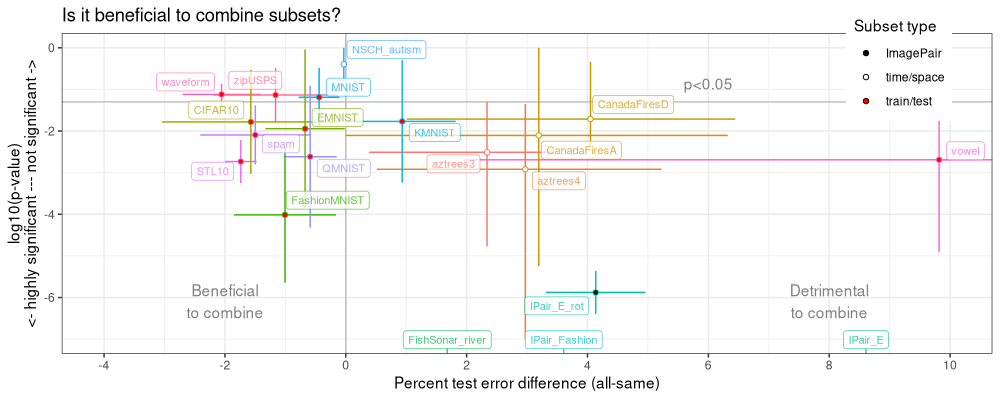
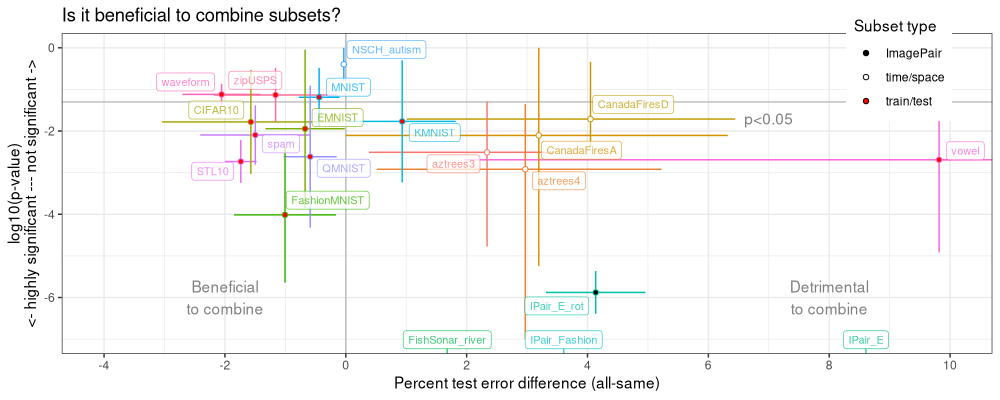
soak text ticks

diff --git a/_posts/2025-04-08-soak-volcano.md b/_posts/2025-04-08-soak-volcano.md
@@ -478,9 +478,9 @@ compare.wide[log10.p_other < -20, log10.p_other := -Inf][]
 tlab <- function(x, y, label){
   data.table(x, y, label)
 }
-text.y <- -6.5
+text.y <- -6
 text.dt <- rbind(
-  tlab(6, -1, "p<0.05"),
+  tlab(7, -1.7, "p<0.05"),
   tlab(-2, text.y, "Beneficial\nto combine"),
   tlab(8, text.y, "Detrimental\nto combine"))
 set.seed(2)# for ggrepel.
@@ -497,7 +497,6 @@ ggplot()+
   geom_vline(xintercept=0,color="grey")+
   geom_text(aes(
     x, y, label=label, color=NULL),
-    vjust=0,
     color="grey50",
     data=text.dt)+
   geom_segment(aes(
@@ -660,14 +659,18 @@ segments.
 
 
 ``` r
+text.y <- -6.5
+text.dt <- rbind(
+  tlab(7, -1.4, "p<0.05"),
+  tlab(-2, text.y, "Beneficial\nto combine"),
+  tlab(8, text.y, "Detrimental\nto combine"))
 ggplot()+
   theme_bw()+
-  theme(legend.position=c(0.9,0.2))+
-  geom_hline(yintercept=log10(0.05),color="grey")+
+  theme(legend.position=c(0.9,0.1))+
+  geom_hline(yintercept=-log10(0.05),color="grey")+
   geom_vline(xintercept=0,color="grey")+
   geom_text(aes(
-    x, y, label=label, color=NULL),
-    vjust=0,
+    x, -y, label=label, color=NULL),
     color="grey50",
     data=text.dt)+
   geom_point(aes(
@@ -687,7 +690,7 @@ ggplot()+
   scale_color_discrete(guide="none")+
   scale_y_continuous(
     "-log10(p-value)\n<- not significant --- highly significant ->",
-    breaks=seq(-100,0,by=2))+
+    breaks=seq(-100,100,by=2))+
   scale_x_continuous(
     "Percent test error difference (all-same)",
     breaks=seq(-100,10,by=2))+
@@ -741,9 +744,10 @@ sessionInfo()
 ## [1] ggplot2_3.5.1     data.table_1.17.0
 ## 
 ## loaded via a namespace (and not attached):
-##  [1] crayon_1.5.3     vctrs_0.6.5      cli_3.6.4        knitr_1.50       rlang_1.1.5      xfun_0.51       
-##  [7] ggrepel_0.9.6    generics_0.1.3   glue_1.8.0       nc_2025.3.24     colorspace_2.1-1 scales_1.3.0    
-## [13] grid_4.5.0       munsell_0.5.1    evaluate_1.0.3   tibble_3.2.1     lifecycle_1.0.4  compiler_4.5.0  
-## [19] dplyr_1.1.4      Rcpp_1.0.14      pkgconfig_2.0.3  farver_2.1.2     R6_2.6.1         tidyselect_1.2.1
-## [25] pillar_1.10.1    magrittr_2.0.3   tools_4.5.0      withr_3.0.2      gtable_0.3.6
+##  [1] crayon_1.5.3     vctrs_0.6.5      cli_3.6.4        knitr_1.50       xfun_0.51        rlang_1.1.5     
+##  [7] ggrepel_0.9.6    bench_1.1.4      generics_0.1.3   glue_1.8.0       labeling_0.4.3   nc_2025.3.24    
+## [13] colorspace_2.1-1 scales_1.3.0     fpopw_1.1        grid_4.5.0       evaluate_1.0.3   munsell_0.5.1   
+## [19] tibble_3.2.1     profmem_0.6.0    lifecycle_1.0.4  compiler_4.5.0   dplyr_1.1.4      Rcpp_1.0.14     
+## [25] pkgconfig_2.0.3  atime_2025.4.1   farver_2.1.2     lattice_0.22-6   R6_2.6.1         tidyselect_1.2.1
+## [31] pillar_1.10.1    magrittr_2.0.3   tools_4.5.0      withr_3.0.2      gtable_0.3.6
 ```
